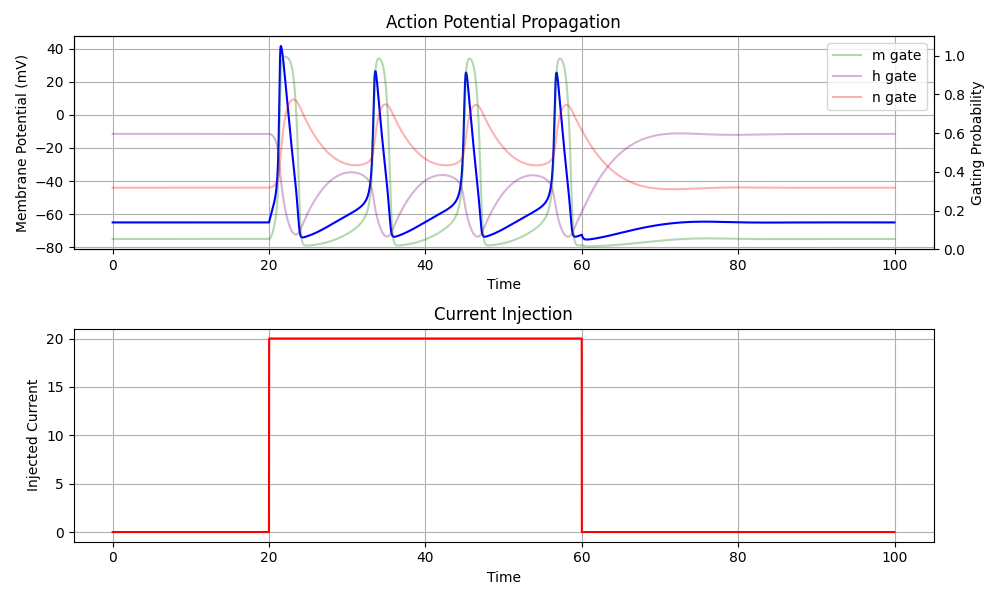
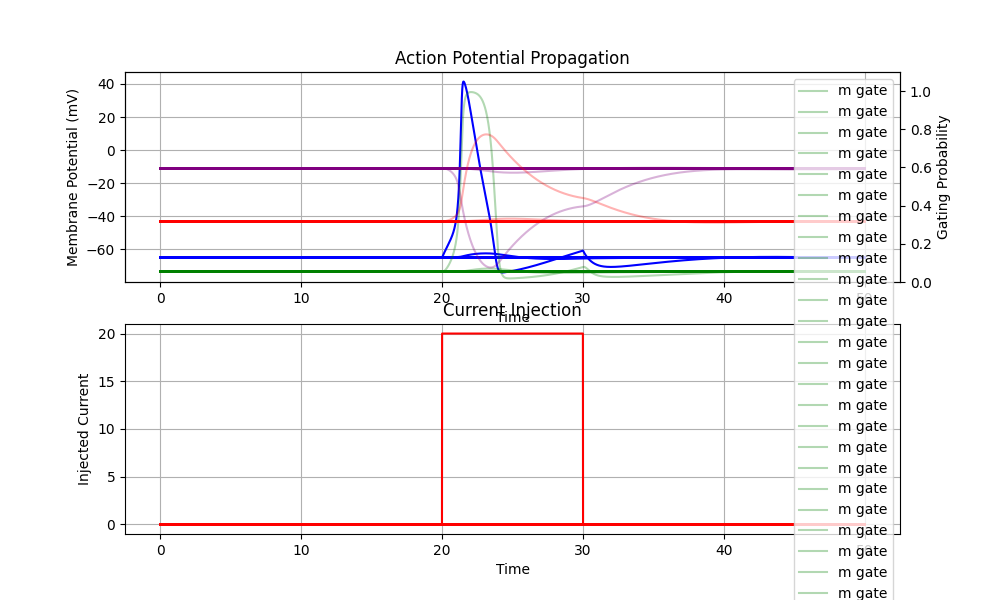
feat: initial implementation of cable model with hh generation

diff --git a/hh_model.py b/hh_model.py
@@ -15,6 +15,21 @@ E_Na = 50.0
 E_K = -77.0
 E_L = -54.387
 
+# cabel geometry
+
+length = 2.0  # cm
+diameter = 0.05  #
+radius = diameter / 2
+r_a = 35.4  # axial resistivity
+
+# discretization
+n_spatial = 100
+dx = length / n_spatial
+dt = 0.01
+T = 50.0
+
+diffusion_coeff = radius / (2 * r_a * dx**2 + C_m)
+
 # rate functions
 # k activation
 
@@ -50,29 +65,33 @@ def create_square_pulse(t, start, end, amplitude, dt):
 
 
 def main():
-    dt = 0.01  # ms
-    T = 100.0
+    n_time = int(T / dt)
     t = np.arange(0, T, dt)
+    x = np.linspace(0, length, n_spatial)
 
-    V = np.zeros(len(t))
-    m = np.zeros(len(t))
-    h = np.zeros(len(t))
-    n = np.zeros(len(t))
+    V = np.zeros((n_time, n_spatial))
+    m = np.zeros((n_time, n_spatial))
+    h = np.zeros((n_time, n_spatial))
+    n = np.zeros((n_time, n_spatial))
 
     # set initial resting positions
-    V[0] = -65.0
-    m[0] = 0.0529
-    h[0] = 0.5961
-    n[0] = 0.3177
+    V[0, :] = -65.0
+    m[0, :] = 0.0529
+    h[0, :] = 0.5961
+    n[0, :] = 0.3177
 
-    I_inj = create_square_pulse(t, 20, 60, 20, dt)
+    # I_inj = create_square_pulse(t, 20, 60, 20, dt)
+    I_inj = np.zeros((n_time, n_spatial))
+    start_idx = int(20 / dt)
+    end_idx = int(30 / dt)
+    I_inj[start_idx:end_idx, 0] = 20.0
 
     # Using the Euler forward method
     for i in range(1, len(t)):
-        V_old = V[i - 1]
-        m_old = m[i - 1]
-        h_old = h[i - 1]
-        n_old = n[i - 1]
+        V_old = V[i - 1, :]
+        m_old = m[i - 1, :]
+        h_old = h[i - 1, :]
+        n_old = n[i - 1, :]
 
         I_Na = g_Na * (m_old**3) * h_old * (V_old - E_Na)
         I_K = g_K * (n_old**4) * (V_old - E_K)
@@ -82,45 +101,68 @@ def main():
         dh = alpha_h(V_old) * (1 - h_old) - beta_h(V_old) * h_old
         dn = alpha_n(V_old) * (1 - n_old) - beta_n(V_old) * n_old
 
-        m[i] = m_old + dm * dt
-        h[i] = h_old + dh * dt
-        n[i] = n_old + dn * dt
+        m[i, :] = m_old + dm * dt
+        h[i, :] = h_old + dh * dt
+        n[i, :] = n_old + dn * dt
 
-        dV = (I_inj[i - 1] - I_Na - I_K - I_L) / C_m
-        V[i] = V_old + dV * dt
+        # cable equation: spatial diffusion term
+        d2V = np.zeros(n_spatial)
+        d2V[1:-1] = V_old[2:] - 2 * V_old[1:-1] + V_old[:-2]
+        d2V[0] = V_old[1] - V_old[0]
+        d2V[-1] = V_old[-2] - V_old[-1]
 
-    fig, (ax1, ax2) = plt.subplots(2, 1, figsize=(10, 6), sharex=False)
+        dV = (diffusion_coeff * d2V + I_inj[i - 1, :] - I_Na - I_K - I_L) / C_m
 
-    ax1.plot(t, V, color="blue")
-    # ax1.plot(t, m_p, color="green", alpha=0.3, label="m gate")
-    # ax1.plot(t, n_p, color="red", alpha=0.3, label="n gate")
-    # ax1.plot(t, h_p, color="purple", alpha=0.3, label="h gate")
+        V[i, :] = V_old + dV * dt
 
-    ax1_right = ax1.twinx()
-    ax1_right.set_ylabel("Gating Probability")
-    ax1_right.set_ylim(0, 1.1)
+    # 1. Space-time plot (heatmap)
+    ax1 = plt.subplot(3, 1, 1)
+    im = ax1.imshow(
+        V.T,
+        aspect="auto",
+        origin="lower",
+        cmap="RdBu_r",
+        vmin=-80,
+        vmax=40,
+    )
+    ax1.set_xlabel("Time (ms)")
+    ax1.set_ylabel("Position (cm)")
+    ax1.set_ylim(0, length)
+    ax1.set_title("Action Potential Propagation Along Cable")
+    plt.colorbar(im, ax=ax1, label="Membrane Potential (mV)")
 
-    gates = {"m": (m, "green"), "h": (h, "purple"), "n": (n, "red")}
-
-    for name, (data, color) in gates.items():
-        ax1_right.plot(t, data, color=color, alpha=0.3, label=f"{name} gate")
-
-    ax1_right.legend()
-
-    ax1.set_xlabel("Time")
-    ax1.set_ylabel("Membrane Potential (mV)")
-    ax1.set_title("Action Potential Propagation")
-    ax1.grid(True)
-
-    ax2.plot(t, I_inj, color="Red")
-    ax2.set_xlabel("Time")
-    ax2.set_ylabel("Injected Current")
-    ax2.set_title("Current Injection")
+    # 2. Voltage at different positions
+    ax2 = plt.subplot(3, 1, 2)
+    positions_to_plot = [
+        0,
+        n_spatial // 4,
+        n_spatial // 2,
+        3 * n_spatial // 4,
+        n_spatial - 1,
+    ]
+    for pos in positions_to_plot:
+        ax2.plot(t, V[:, pos], label=f"x = {x[pos]:.2f} cm")
+    ax2.set_xlabel("Time (ms)")
+    ax2.set_ylabel("Membrane Potential (mV)")
+    ax2.set_title("Voltage at Different Positions")
+    ax2.legend()
     ax2.grid(True)
 
+    ax3 = plt.subplot(3, 1, 3)
+    times_to_plot = [10, 20, 25, 30, 35]
+    for time_ms in times_to_plot:
+        idx = int(time_ms / dt)
+        if idx < n_time:
+            ax3.plot(x, V[idx, :], label=f"t = {time_ms} ms")
+    ax3.set_xlabel("Position (cm)")
+    ax3.set_ylabel("Membrane Potential (mV)")
+    ax3.set_title("Spatial Profile at Different Times")
+    ax3.legend()
+    ax3.grid(True)
+
     plt.tight_layout()
-    plt.savefig("hh_model.png")
-    # plt.show()
+    plt.savefig("hh_cable_model.png", dpi=150)
+    plt.show()
 
 
 if __name__ == "__main__":

diff --git a/hh_cable.py b/hh_cable.py
@@ -1,0 +1,145 @@
+import matplotlib.pyplot as plt
+import numpy as np
+
+# spatial and temporal parameters
+L = 1000.0
+T = 40.0
+dx = 10.0
+dt = 0.01
+
+n_x = int(L / dx)
+n_t = int(T / dt)
+
+# cable parameters
+lam = 200.0  # space constant
+tau = 1.0  # time constant
+c_m = 1.0
+
+# hodgkin-huxley parameters
+g_Na = 120.0  # uS/cm^2
+g_K = 36.0  # uS/cm^2
+g_L = 0.3  # uS/cm^2
+
+E_Na = 50.0
+E_K = -77.0
+E_L = -54.387
+
+# diffusion coefficient
+alpha = (lam**2 * dt) / (tau * dx**2)
+
+
+def alpha_n(V):
+    return -0.01 * (V + 55) / (np.exp((V + 55) / -10) - 1)
+
+
+def beta_n(V):
+    return 0.125 * np.exp((V + 65) / -80)
+
+
+def alpha_m(V):
+    return -0.1 * (V + 40) / (np.exp((V + 40) / -10) - 1)
+
+
+def beta_m(V):
+    return 4 * np.exp((V + 65) / -18)
+
+
+def alpha_h(V):
+    return 0.07 * np.exp((V + 65) / -20)
+
+
+def beta_h(V):
+    return 1 / (1 + np.exp((V + 35) / -10))
+
+
+def main():
+    v_matrix = np.zeros((n_t, n_x))
+    m_matrix = np.zeros((n_t, n_x))
+    n_matrix = np.zeros((n_t, n_x))
+    h_matrix = np.zeros((n_t, n_x))
+
+    # initial conditions
+    v_rest = -65.0
+    v_matrix[:, 0] = v_rest
+
+    m_matrix[0, :] = alpha_m(v_rest) / (alpha_m(v_rest) + beta_m(v_rest))
+    h_matrix[0, :] = alpha_h(v_rest) / (alpha_h(v_rest) + beta_h(v_rest))
+    n_matrix[0, :] = alpha_n(v_rest) / (alpha_n(v_rest) + beta_n(v_rest))
+
+    input_steps = int(5.0 / dt)
+    i_stim = 50.0
+
+    # main sim
+    for t in range(0, n_t - 1):
+        for x in range(1, n_x - 1):
+            v = v_matrix[t, x]
+            m = m_matrix[t, x]
+            h = h_matrix[t, x]
+            n = n_matrix[t, x]
+
+            v_left = v_matrix[t, x - 1]
+            v_center = v_matrix[t, x]
+            v_right = v_matrix[t, x + 1]
+
+            diffusion = alpha * (v_left - 2 * v_center + v_right)
+
+            # hh currents
+            i_Na = g_Na * (m**3) * h * (v - E_Na)
+            i_K = g_K * (n**4) * (v - E_K)
+            i_L = g_L * (v - E_L)
+
+            i_ion = i_Na + i_K + i_L
+
+            i_applied = 0.0
+            if x == 1 and t < input_steps:
+                i_applied = i_stim
+
+            dv_dt = diffusion - (i_ion * dt) / c_m + (i_applied * dt) / c_m
+            v_matrix[t + 1, x] = v + dv_dt
+
+            # update gating variables
+            am = alpha_m(v)
+            bm = beta_m(v)
+            ah = alpha_h(v)
+            bh = beta_h(v)
+            an = alpha_n(v)
+            bn = beta_n(v)
+
+            m_matrix[t + 1, x] = m + dt * (am * (1 - m) - bm * m)
+            h_matrix[t + 1, x] = h + dt * (ah * (1 - h) - bh * h)
+            n_matrix[t + 1, x] = n + dt * (an * (1 - n) - bn * n)
+
+        # apply right boundary condition (sealed end)
+        v_matrix[t + 1, n_x - 1] = v_matrix[t + 1, n_x - 2]
+        h_matrix[t + 1, n_x - 1] = h_matrix[t + 1, n_x - 2]
+        n_matrix[t + 1, n_x - 1] = n_matrix[t + 1, n_x - 2]
+        m_matrix[t + 1, n_x - 1] = m_matrix[t + 1, n_x - 2]
+
+        # apply left boundary condition (sealed end)
+        v_matrix[t + 1, 0] = v_matrix[t + 1, 1]
+        h_matrix[t + 1, 0] = h_matrix[t + 1, 1]
+        n_matrix[t + 1, 0] = n_matrix[t + 1, 1]
+        m_matrix[t + 1, 0] = m_matrix[t + 1, 1]
+
+    fig, ax1 = plt.subplots(
+        figsize=(10, 6),
+    )
+
+    ax1.imshow(
+        v_matrix.T,
+        aspect="auto",
+        cmap="viridis",
+        vmin=-80,
+        vmax=40,
+        origin="lower",
+    )
+    ax1.set_ylabel("Position")
+    ax1.set_xlabel("Time")
+
+    ax1.set_title("Action potential propagation")
+
+    plt.show()
+
+
+if __name__ == "__main__":
+    main()

diff --git a/cable_equation.py b/cable_equation.py
@@ -1,0 +1,55 @@
+import matplotlib.pyplot as plt
+import numpy as np
+
+L = 1000.0
+T = 40.0
+dx = 40.0
+dt = 0.05
+
+n_x = int(L / dx)
+n_t = int(T / dt)
+
+tau = 10.0
+lam = 200.0
+
+alpha = (lam**2 * dt) / (dx**2 * tau)
+print(alpha)
+beta = dt / tau
+
+
+v_matrix = np.zeros((n_t, n_x))
+
+# voltage high at x=0 for the first 5ms
+
+input_steps = int(5.0 / dt)
+v_matrix[:input_steps, 0] = 20.0
+
+for n in range(0, n_t - 1):
+    for i in range(1, n_x - 1):
+        v_left = v_matrix[n, i - 1]
+        v_center = v_matrix[n, i]
+        v_right = v_matrix[n, i + 1]
+
+        second_derivative = v_right - 2 * v_center + v_left
+        diffusion = alpha * second_derivative
+
+        decay = beta * v_center
+
+        v_matrix[n + 1, i] = v_center + diffusion - decay
+
+    # right boundary condition where x = L
+    v_matrix[n + 1, -1] = v_matrix[n + 1, -2]
+    # periodic
+    # constant voltage
+
+    # apply the left boundary condition i.e the stimulus
+    if n < input_steps - 1:
+        v_matrix[n + 1, 0] = 20.0
+
+plt.figure(figsize=(10, 6))
+
+plt.imshow(v_matrix, aspect="auto", cmap="viridis", origin="lower", extent=[0, L, 0, T])
+plt.colorbar(label="Voltage")
+plt.xlabel("Distance along the Neuron")
+plt.ylabel("Time")
+plt.show()
